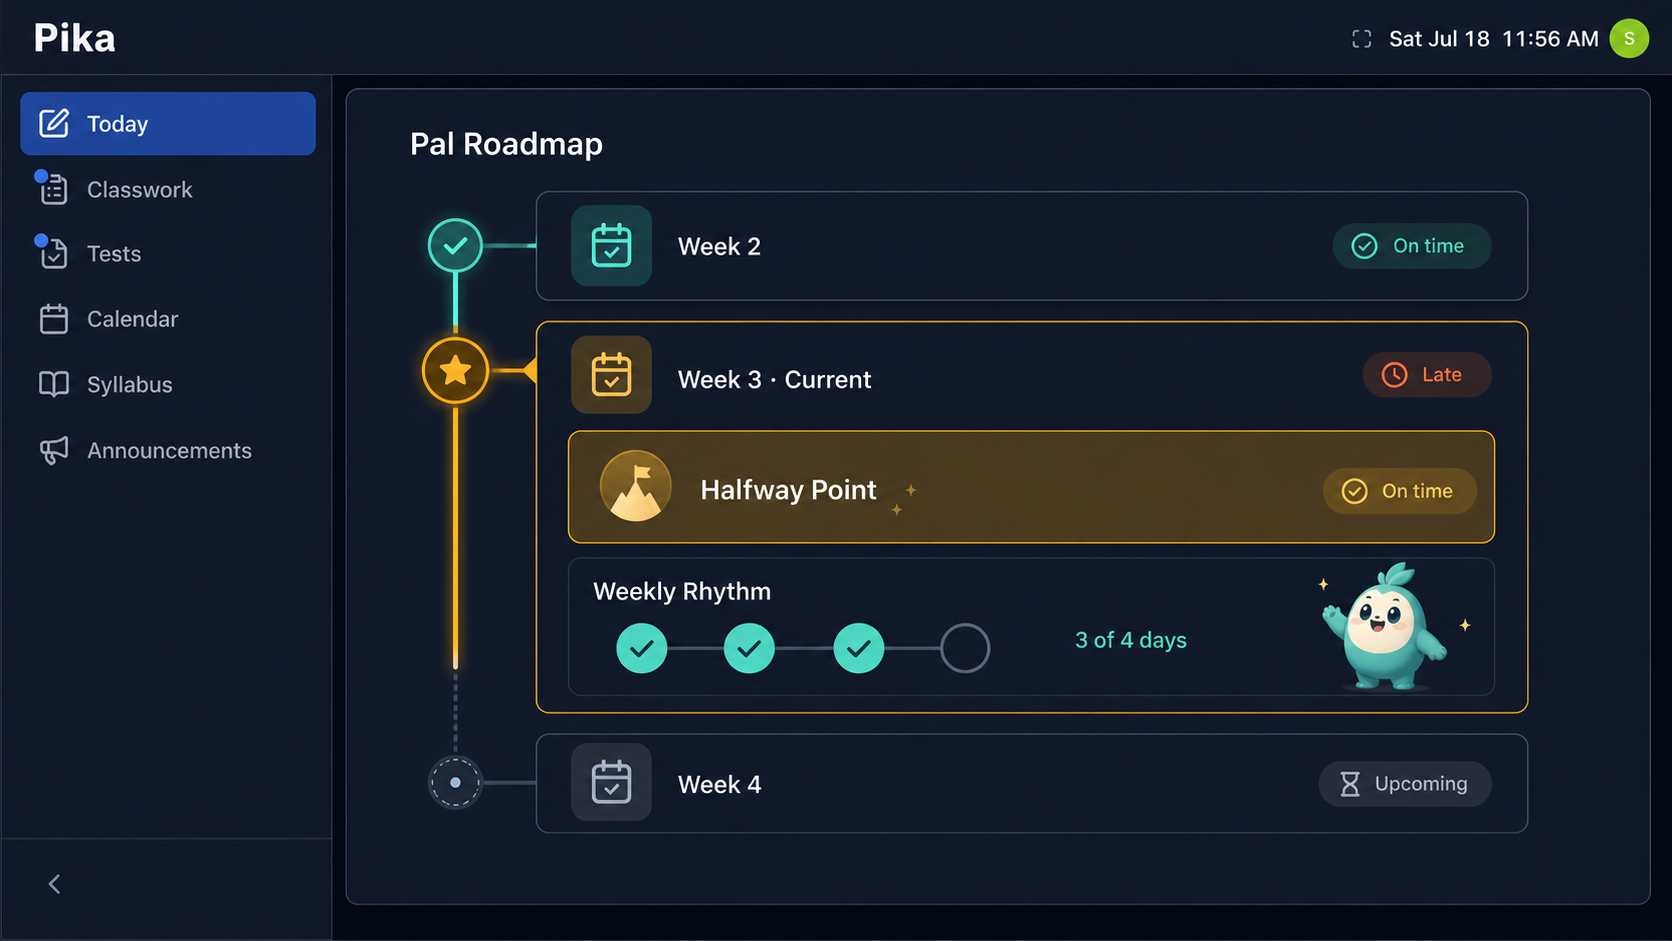
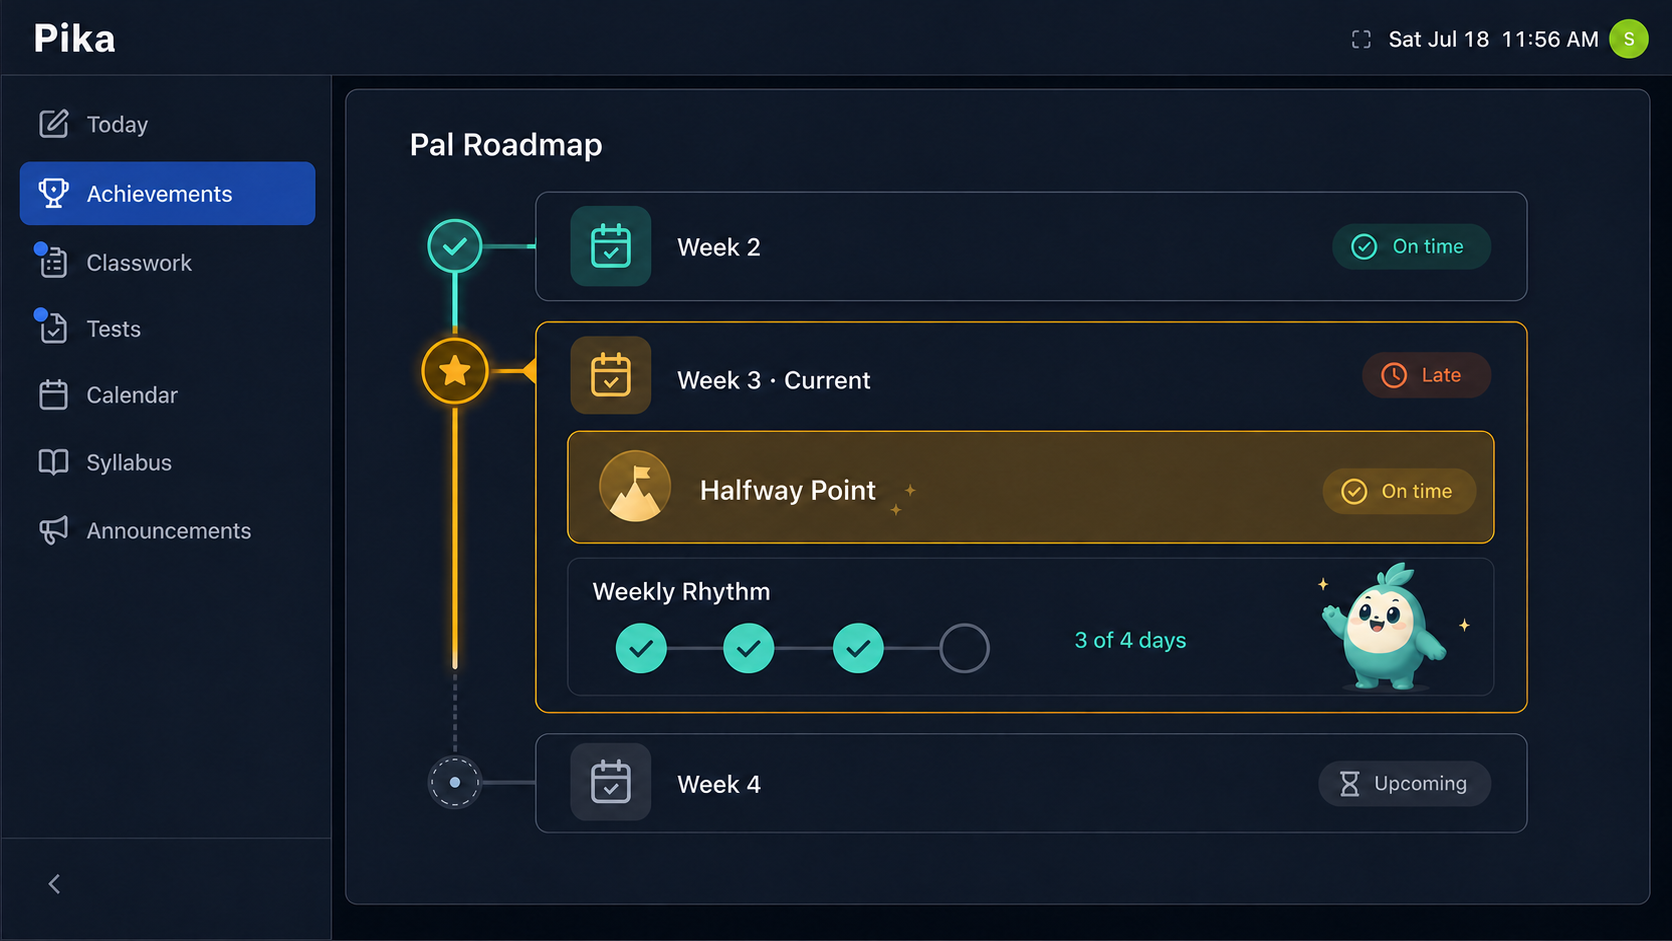
Add achievement pilot delivery plan

diff --git a/docs/pilot-plan.md b/docs/pilot-plan.md
@@ -1,0 +1,64 @@
+# Pika–Pal Achievement Pilot Plan
+
+> Time-bound delivery snapshot. The team is in week 4 of an 8-week pilot as of 2026-07-21.
+> GitHub issues remain the source of truth for day-to-day task status.
+
+This plan turns the target architecture in [Pika Signal Adapter and Achievement Pipeline](pika-signal-adapter.md) into a focused pilot. It records ownership and checkpoints without changing the durable boundary: Pika owns source facts, and Pal owns achievement interpretation, rewards, and presentation.
+
+## Pilot scope
+
+The pilot supports five learner-facing achievements:
+
+| Achievement | Qualifying Pika facts | Pal result |
+|---|---|---|
+| First Pika Login | `platform.session.started` | One learner-lifetime award |
+| Joined the Class | `classroom.joined` | One award per learner/classroom |
+| Weekly Rhythm | `daily_log_week.configured` and distinct `daily_log.completed` dates | Recurring weekly progress and award |
+| Ready Early | First `learning_item.viewed` classified `within_24h_of_release` | One award per learner/item |
+| On-Time Finish | First `learning_item.completed` classified `on_time` | One award per learner/item |
+
+The pilot includes the embedded vertical roadmap, the initial badge set, and one accessible reward celebration. Additional achievement types, an assignment catalog or incomplete-assignment projection, advanced animations, and ClassOS integration are outside this delivery window.
+
+## Ownership
+
+| Owner | Workstream | Responsibilities |
+|---|---|---|
+| **Ab** | Pal engineering and experience | Production ingest, validation, durable idempotency, achievement progress and award persistence, learner-world API state, `/embed/roadmap`, and the reward celebration. |
+| **Je** | Visual system and artwork | Badge templates and icons, status treatments, accessible color/text combinations, initial badge and pet/reward assets, responsive visual QA, and asset handoff. |
+| **Ja** | Achievement design and QA | Achievement rules, recurrence, thresholds, scope, copy, rewards, event-to-achievement mapping, acceptance fixtures, edge-case expectations, and product QA. |
+| **St** | Pika integration | Transactional outbox, six authoritative signal hooks, pseudonymous tokens, weekly configuration revisions, authenticated delivery/retry/reconciliation, embed-token handoff, and Pika-side contract tests. |
+
+Ab and St jointly own the cross-project contract tests. Neither side changes a version 1 event field, enum, identity rule, or retry behavior without updating the shared contract first.
+
+## Weeks 4–8
+
+| Week | Required outcome |
+|---|---|
+| **4 — Align and prove** | Ja freezes the five pilot rules and acceptance examples. Je freezes the badge/status system. St and Ab prove one complete real or contract-fixture signal → durable Pal fact → achievement state → rendered badge path. |
+| **5 — Make it durable** | St completes the initial outbox and authoritative emitters. Ab completes production persistence, validation, idempotency, progress, and award storage. Je delivers the initial badges. Ja validates the fixtures. |
+| **6 — Make it visible** | Ab delivers the chrome-free embedded roadmap. St completes secure read-token handoff and reconciliation visibility. Je and Ja validate every supported state with representative data. |
+| **7 — Integrate and harden** | The team adds the one-time reward celebration and tests retries, concurrent duplicates, delayed/out-of-order delivery, short weeks, schedule revisions, resubmissions, deleted assignments, and archived classes. |
+| **8 — Pilot** | The team completes accessibility review, fixes pilot-blocking defects, verifies deployment and failure recovery, runs the learner pilot, and records follow-up work separately from the pilot scope. |
+
+## Delivery checkpoints
+
+### End of week 5: integration gate
+
+A real Pika learner action must travel through the durable outbox and create the correct durable Pal progress or award exactly once. Retry and duplicate delivery must not create extra progress or rewards. If this gate is not met, the pilot narrows to First Pika Login, Joined the Class, and Weekly Rhythm before more badge or animation work is added.
+
+### End of week 8: definition of done
+
+The pilot is complete when:
+
+- all five achievements follow the version 1 event contract and acceptance fixtures;
+- Pal retains correct progress and awards across restarts and concurrent duplicate delivery;
+- weekly revisions and shortened weeks behave as documented;
+- Pika delivery failures are visible and recoverable without blocking learner actions;
+- the Achievements destination opens Pal's roadmap inside Pika's content pane;
+- awards and claimable rewards apply once, with an accessible reduced-motion experience;
+- status uses text and icons as well as color; and
+- inspection of representative payloads confirms that no names, assignment content, grades, raw IDs, or raw deadlines cross into Pal.
+
+## Working agreement
+
+This file records the agreed pilot scope, ownership, and gates. Implementation progress belongs in repository issues, tests, and pull requests. Architecture decisions and event semantics belong in [Pika Signal Adapter and Achievement Pipeline](pika-signal-adapter.md), so the long-lived design remains independent of individual staffing.

diff --git a/docs/pika-signal-adapter.md b/docs/pika-signal-adapter.md
@@ -265,7 +265,7 @@ The first roadmap uses a simple vertical list of weekly rows. This is the select
 - Incomplete status is shown only when Pal received explicit opportunity context, such as a configured Weekly Rhythm week; absence of a learning-item event is not treated as an incomplete assignment.
 - Status always uses an icon and text in addition to color.
 
-![Concept mockup of the Pal vertical weekly achievement roadmap embedded in Pika's content pane](assets/pika-pal-roadmap-concept.png)
+![Concept mockup with Achievements selected in Pika's sidebar and the Pal vertical weekly roadmap embedded in the content pane](assets/pika-pal-roadmap-concept.png)
 
 *Concept mockup only. Every card represents a Pal achievement or milestone, not a mirrored Pika assignment. Labels, visual styling, badge art, and the pet treatment may change during implementation.*
 
@@ -279,7 +279,7 @@ Pal exposes a chrome-free route for the complete roadmap:
 /embed/roadmap
 ```
 
-Pika adds a Pal navigation destination and loads this route inside its normal content pane. The initial integration may use an iframe; `@pal/widget` can replace or wrap the embed later without changing achievement ownership or API contracts.
+Pika adds an **Achievements** navigation destination and loads this route inside its normal content pane. The initial integration may use an iframe; `@pal/widget` can replace or wrap the embed later without changing achievement ownership or API contracts.
 
 ```text
 Pika navigation

diff --git a/docs/roadmap.md b/docs/roadmap.md
@@ -7,7 +7,7 @@ Milestones are sequential but not dated. A milestone is done when everything und
 
 ## Achievement-system workstream (sequencing TBD)
 
-The project's target direction is a recurring achievement roadmap driven automatically by integrations. The cross-project ownership boundary, signal flow, duplicate semantics, Weekly Rhythm example, and detailed Pika/Pal build checklists live in [Pika Signal Adapter and Achievement Pipeline](pika-signal-adapter.md).
+The project's target direction is a recurring achievement roadmap driven automatically by integrations. The cross-project ownership boundary, signal flow, duplicate semantics, Weekly Rhythm example, and detailed Pika/Pal build checklists live in [Pika Signal Adapter and Achievement Pipeline](pika-signal-adapter.md). The time-bound week 4–8 scope, ownership, delivery gates, and pilot definition of done live in the [Pika–Pal Achievement Pilot Plan](pilot-plan.md).
 
 At a high level:
 

diff --git a/README.md b/README.md
@@ -56,6 +56,7 @@ Design discussions, proposals, and feedback happen in **Discord**. Bring an idea
 - [Rule engine](docs/rule-engine.md)
 - [Integration guide](docs/integration.md)
 - [Pika signal adapter and achievement pipeline](docs/pika-signal-adapter.md)
+- [Pika–Pal achievement pilot plan](docs/pilot-plan.md)
 - [Development workflow](docs/dev-workflow.md)
 - [Roadmap](docs/roadmap.md)
 